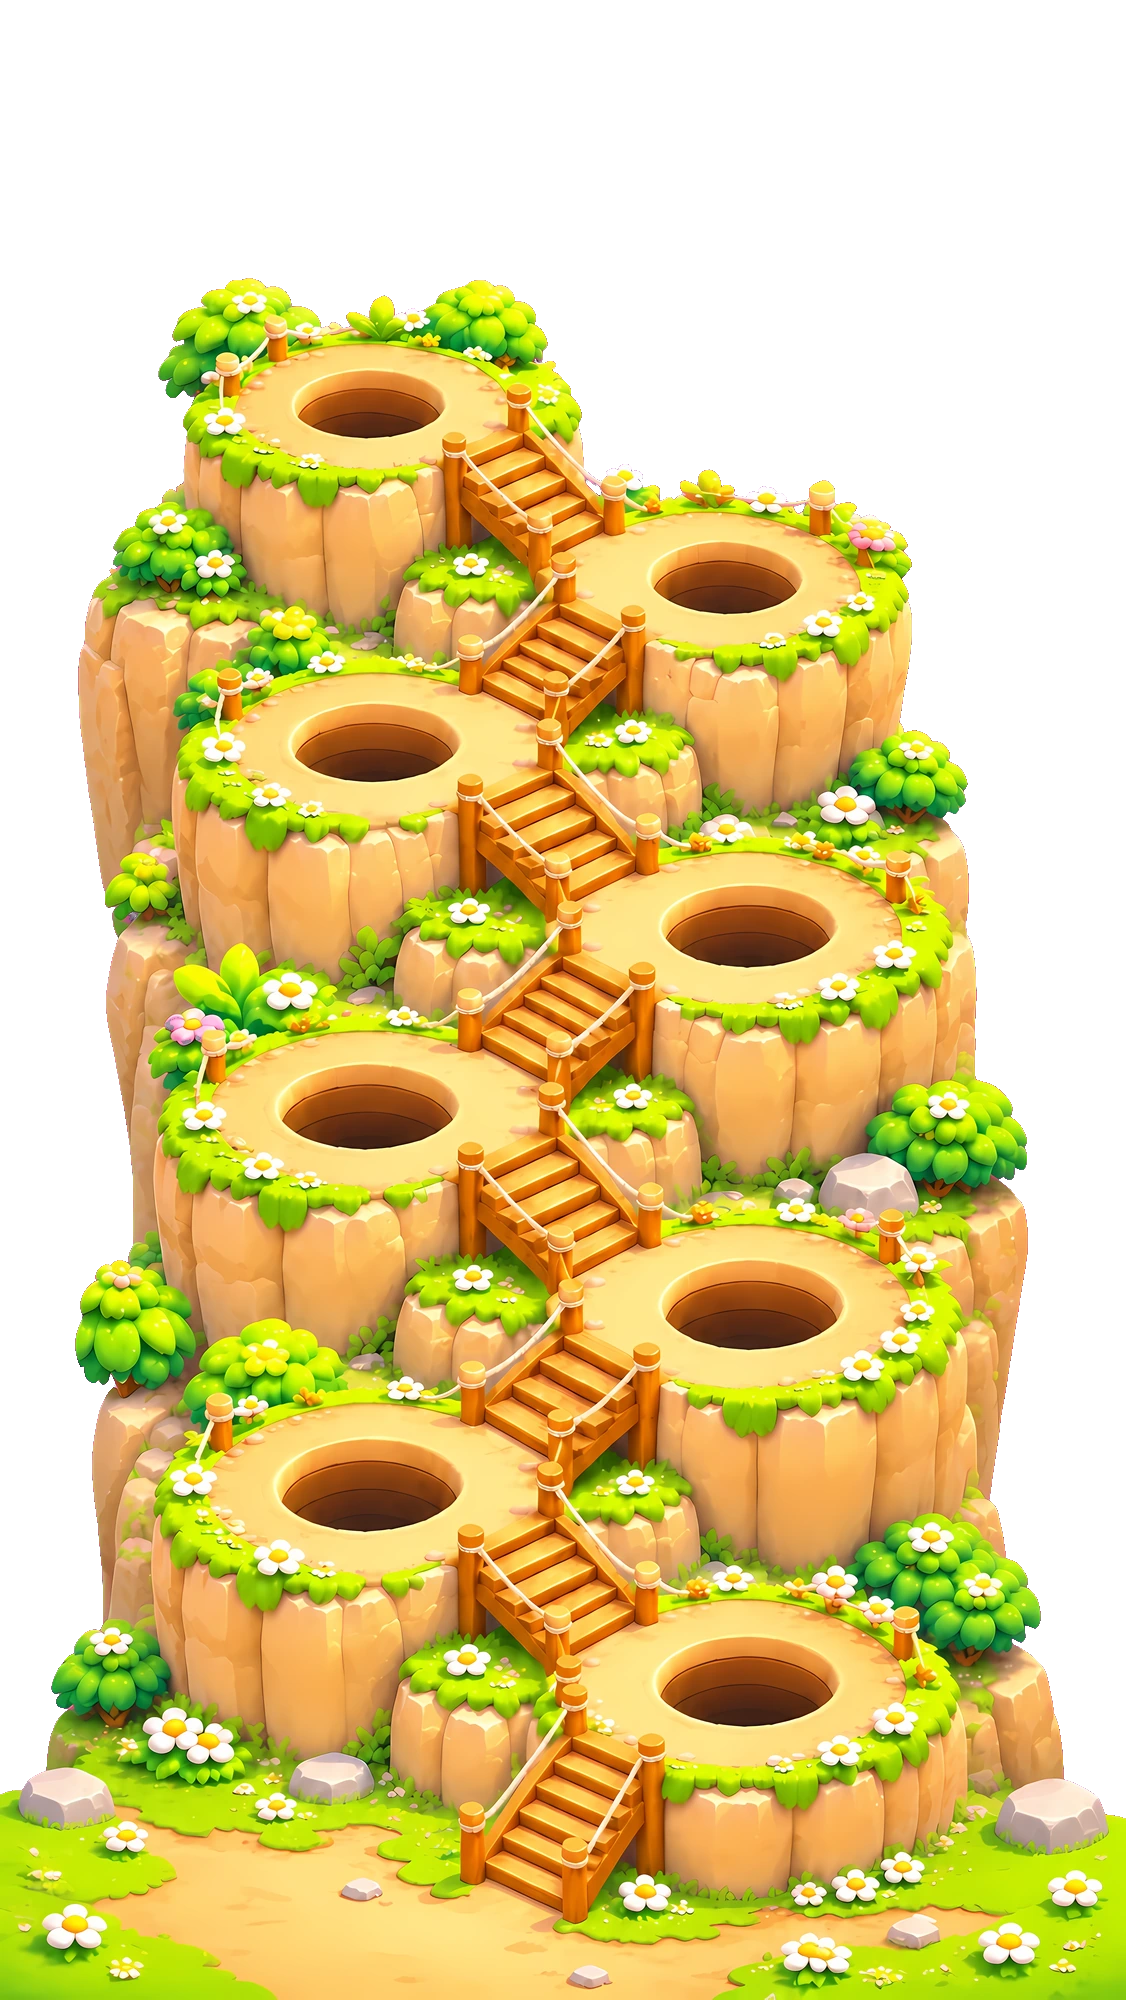
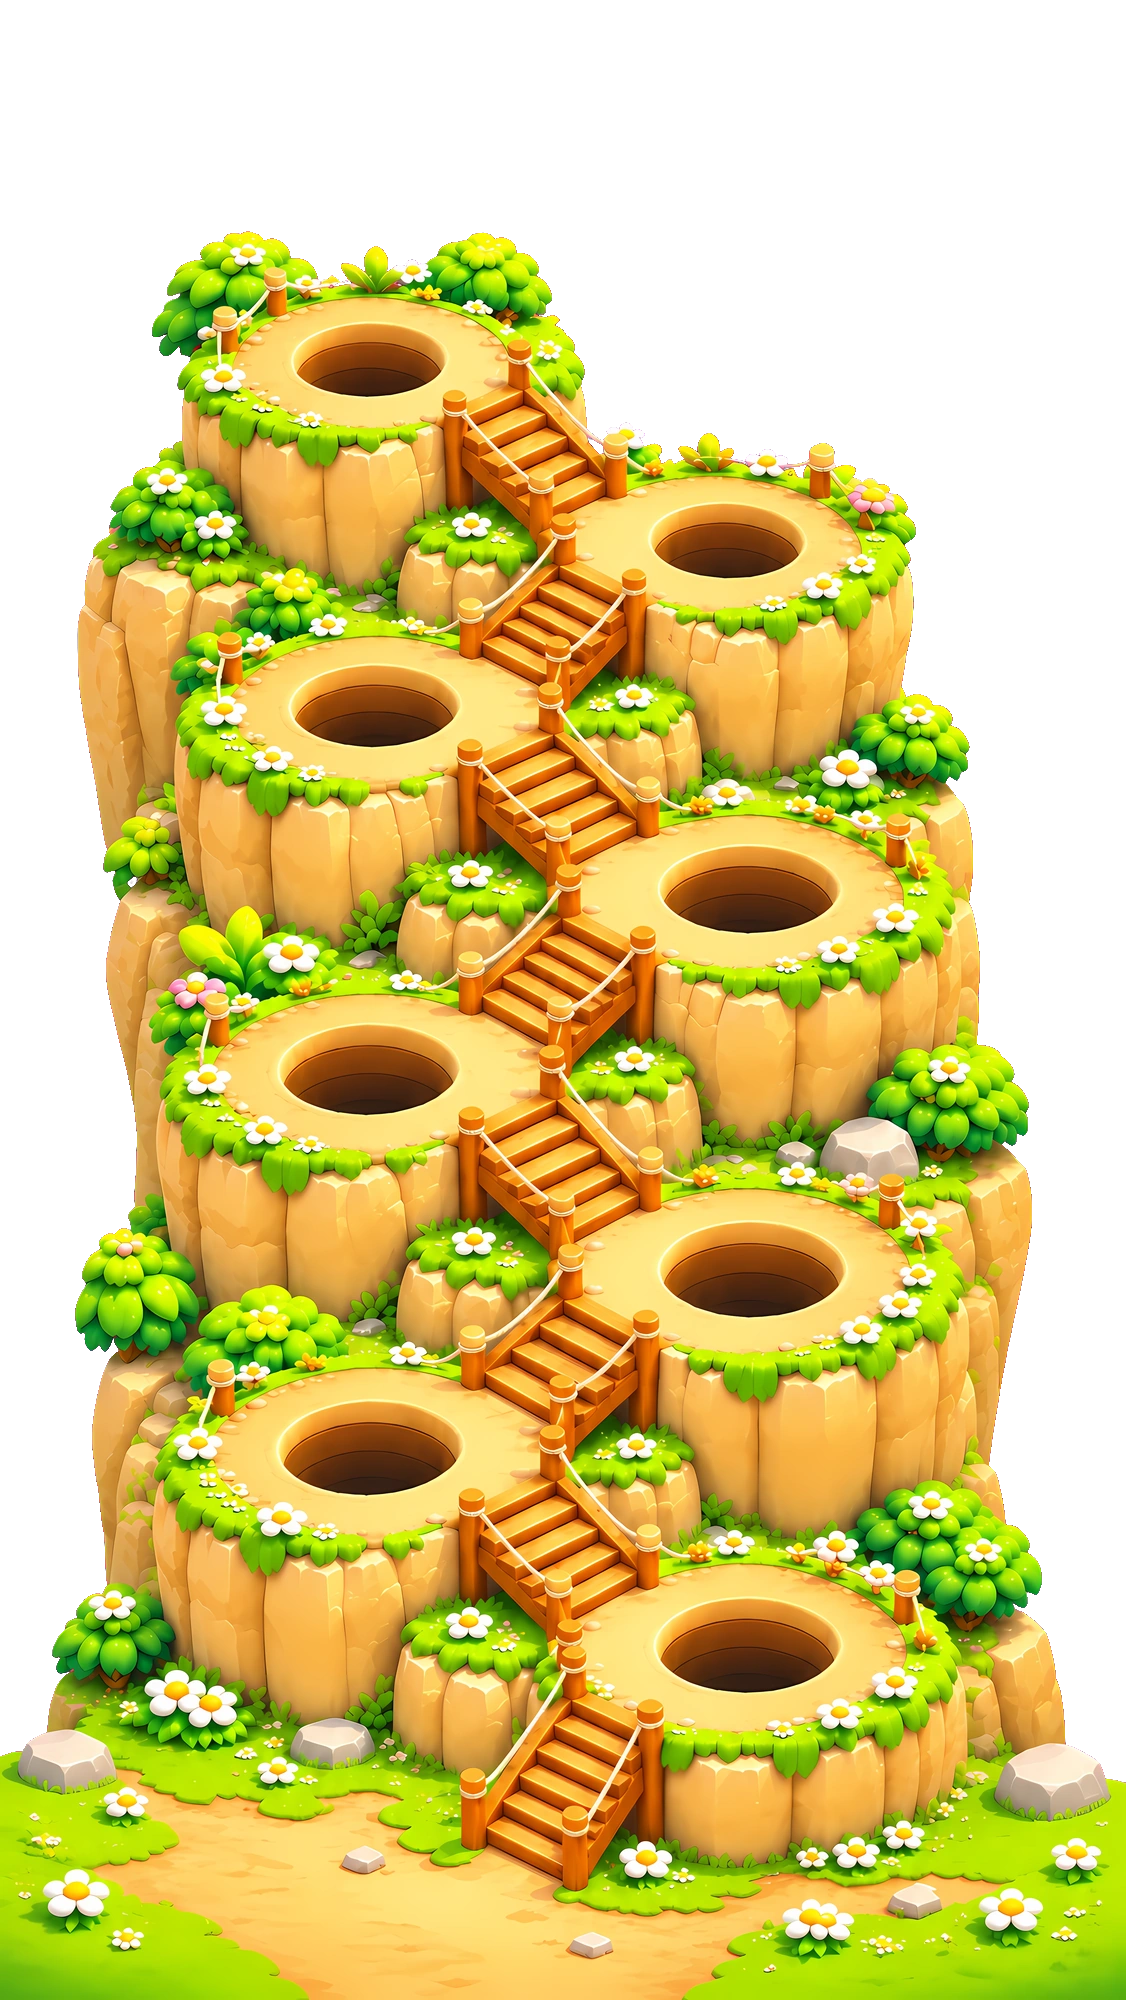
V1551 C: amateur round art high-res regen, rear original brightness, mode buttons on X row
Claude-Session: https://claude.ai/code/session_01A4gqRQNWjEF42VQpMkdpkG

diff --git a/mole/index.html b/mole/index.html
@@ -36,8 +36,8 @@
 <link href="https://fonts.googleapis.com/css2?family=Dongle:wght@700&family=Jua&family=Lilita+One&display=swap" rel="stylesheet">
 <link rel="stylesheet" href="../cosmic-theme.css">
 <link rel="stylesheet" href="../common/settings.css">
-<link rel="stylesheet" href="style.css?v=1550-C">
-<link rel="stylesheet" href="roundmap-window.css?v=1550-C">
+<link rel="stylesheet" href="style.css?v=1551-C">
+<link rel="stylesheet" href="roundmap-window.css?v=1551-C">
 <style>
   /* 로딩 스플래시 — style.css 로딩 전에도 바로 뜨게 인라인. */
   #splash {
@@ -489,7 +489,7 @@
           <img loading="lazy" decoding="async" class="rm-bg" data-rm-bg alt="">
           <div class="rm-parallax-scene" aria-hidden="true">
             <div class="rm-parallax-rear">
-              <img loading="lazy" decoding="async" class="rm-rear-bg rm-mode-easy" src="assets/roundmap/hd-v1550/easy-rear.webp" alt=""><!-- V1550 C 사용자: 아마추어 뒷배경 = 기존 그림 30% 뿌옇게(하늘색 막), 옛 보석·랜턴 빛 층 삭제 -->
+              <img loading="lazy" decoding="async" class="rm-rear-bg rm-mode-easy" src="assets/roundmap/hd-v1330/easy-rear.webp" alt=""><!-- V1551 C 사용자: 아마추어 뒷배경 밝기 원래대로(뿌옇게 취소). V1550 C 옛 보석·랜턴 빛 층 삭제 -->
               <img loading="lazy" decoding="async" class="rm-rear-bg rm-mode-mid" src="assets/roundmap/hd-v1330/mid-rear.webp" alt=""><img loading="lazy" decoding="async" class="rm-glow-layer rm-glow-gem rm-mode-mid" src="assets/roundmap/hd-v1330/mid-rear-gem.webp" alt="" style="left:0.000%;top:0.400%;width:100.000%;height:99.600%"><img loading="lazy" decoding="async" class="rm-glow-layer rm-glow-lan rm-mode-mid" src="assets/roundmap/hd-v1330/mid-rear-lan.webp" alt="" style="left:48.135%;top:2.700%;width:49.822%;height:36.900%">
               <img loading="lazy" decoding="async" class="rm-rear-bg rm-mode-legend" src="assets/roundmap/hd-v1330/legend-rear.webp" alt=""><img loading="lazy" decoding="async" class="rm-glow-layer rm-glow-gem rm-mode-legend" src="assets/roundmap/hd-v1330/legend-rear-gem.webp" alt="" style="left:0.000%;top:7.150%;width:100.000%;height:91.450%"><img loading="lazy" decoding="async" class="rm-glow-layer rm-glow-lan rm-mode-legend" src="assets/roundmap/hd-v1330/legend-rear-lan.webp" alt="" style="left:8.171%;top:3.500%;width:90.586%;height:19.200%">
               <canvas class="rm-fluid-canvas" data-rm-rear-fluid hidden></canvas>
@@ -1008,7 +1008,7 @@
         <!-- 배포 버전 표식(스크린샷으로 어느 버전인지 확인용) — 화면 좌하단에 두면 다른 UI에
              가려 잘 안 보인다는 사용자 지적으로, 하트 아이콘(다이얼패드 1번 칸) 바로 위로 이동. -->
         <div class="h2-preload" aria-hidden="true"></div><!-- v951: 게임 중 버튼 색(초록·노랑·빨강·분홍·회색) 미리 읽어 두기 — 처음 바뀔 때 깜빡임 방지 -->
-        <div id="build-tag" aria-hidden="true">V 1550 C</div>
+        <div id="build-tag" aria-hidden="true">V 1551 C</div>
         <!-- 피버타임(터치캐치 보너스타임) 전광판 — 버튼보드 자리를 통째로 덮는 오버레이,
              평소엔 hidden, 피버 중에만 콤보/잔여시간 표시(사용자 지정: "전광판처럼"). -->
         <div id="fever-scoreboard" class="fever-scoreboard" hidden>
@@ -1076,7 +1076,7 @@ window.FGH.rollOut = function (el, done) {
 <script src="js/workshop.js?v=1531-C"></script>
 <script src="js/round-map-fluids.js"></script>
 <script src="js/round-map-fluid-scenes.js"></script>
-<script src="js/round-map.js?v=1550-C"></script>
+<script src="js/round-map.js?v=1551-C"></script>
 <script src="js/rhythm-b-routes.js"></script>
 <script src="js/rhythm-b-flow.js"></script>
 <script src="js/rhythm-b-play.js"></script>
@@ -1294,7 +1294,7 @@ window.FGH.rollOut = function (el, done) {
         var gate = window.__moleAssetGate;
         function waitForCurrentWorker(registration) {
           return new Promise(function (resolve, reject) {
-            var latest = 'v=1550-C';
+            var latest = 'v=1551-C';
             var done = false;
             var timer = setTimeout(function () { finish(); }, 25000);
             function finish(error) {
@@ -1321,7 +1321,7 @@ window.FGH.rollOut = function (el, done) {
           console.warn('Starting while service worker registration continues in background');
           if (gate) gate.resolveCache();
         }, 30000);
-        navigator.serviceWorker.register('sw.js?v=1550-C').then(waitForCurrentWorker).then(function () {
+        navigator.serviceWorker.register('sw.js?v=1551-C').then(waitForCurrentWorker).then(function () {
           clearTimeout(registrationTimer);
           if (gate) gate.resolveCache();
         }).catch(function (error) {

diff --git a/mole/sw.js b/mole/sw.js
@@ -30,7 +30,8 @@
 // V1548 C: Normal frame 144% bright, 105% size, time-bomb animals use new bomb style, rabbit 92% + body-centered, hippo centered.
 // V1549 C: emerge clods per season (spring leaf+light dirt, summer sand, autumn orange leaves, winter snowballs).
 // V1550 C: Amateur round map new bright 3D cartoon art (hazed rear 30%, new route, new wall frame pushed to edges), full-screen map, tap shows/hides mode buttons (top) + wallet/start (bottom), hippo lower.
-const CACHE = 'mole-game-v1550-C';
+// V1551 C: Amateur rear back to original brightness, mode buttons aligned with X row, round art regenerated in high resolution (Codex).
+const CACHE = 'mole-game-v1551-C';
 
 // 화면별 BGM(audio/bgm-*.mp3)은 v275 부터 SHELL 에 포함 — 기본 켜짐(v272)이라 항상 필요하고,
 // 캐시가 안 돼 있으면 오프라인/느린망에서 재생 실패했음.
@@ -189,7 +190,7 @@ const SHELL = [
   './assets/roundmap/window-v1263/route-grounded.webp',
   './assets/roundmap/window-v1263/foreground-frame.webp',
   './assets/roundmap/hd-v1550/easy-front.webp',
-  './assets/roundmap/hd-v1550/easy-rear.webp',
+  './assets/roundmap/hd-v1330/easy-rear.webp',
   './assets/roundmap/hd-v1550/easy-route.webp',
   './assets/roundmap/hd-v1330/legend-front-gem.webp',
   './assets/roundmap/hd-v1330/legend-front-lan.webp',

diff --git a/mole/roundmap-window.css b/mole/roundmap-window.css
@@ -298,7 +298,7 @@ body.rm-open :not(#roundmap-screen):not(#roundmap-screen *)::after { animation-p
 /* 하마: 맨 아래 왼쪽 */
 .rm-window-map .rm-viewer,.rm-window-map[data-light="mid"] .rm-viewer,.rm-window-map[data-light="legend"] .rm-viewer { bottom:calc(env(safe-area-inset-bottom,0px) - 4cqw); }
 /* 난이도 버튼 = 위 빈 하늘(X 왼쪽), 재화 = 아래 시작 버튼 왼쪽(하마와 안 겹침) */
-.rm-window-map .rm-bottom { top:calc(env(safe-area-inset-top,0px) + 8cqw); bottom:auto; left:2%; right:19%; height:max(64px,16cqw); }
+.rm-window-map .rm-bottom { top:calc(env(safe-area-inset-top,0px) + 2% + 14px); bottom:auto; left:2%; right:19%; height:max(64px,16cqw); } /* V1551 C 사용자: X 버튼 줄에 맞춤 */
 .rm-window-map .rm-wallet { left:auto; right:calc(1.5% + 17cqw + 10px); bottom:calc(env(safe-area-inset-bottom,0px) + 1.5% + 8.5cqw - 15px); }
 /* 화면 터치 = 나타남/사라짐(round-map.js rm-ui-on). 티커·X·하마는 항상 보임 */
 .rm-window-map .rm-bottom,.rm-window-map .rm-start,.rm-window-map .rm-wallet { transition:translate .25s ease,opacity .25s ease; }

diff --git a/mole/js/round-map.js b/mole/js/round-map.js
@@ -21,8 +21,8 @@
   // 고정 지형의 실제 구멍 중심(941×1672). 모드별 외형만 다르고 진행 로직은 같다.
   // 뒤 동굴의 이동과 무관하게 구멍, 두더지, 잠금 및 터치 기준점은 함께 고정된다.
   // V1550 C 사용자: 아마추어 새 라운드 그림(hd-v1550/easy-route) 구멍 중심
-  var ROUTE = [[624.8, 1422], [309.5, 1259], [628.7, 1109], [308.5, 942],
-    [626.6, 791], [314.6, 638], [607.9, 499], [311.2, 354]];
+  var ROUTE = [[624.9, 1392], [309.4, 1228], [628.8, 1078], [308.7, 911],
+    [626.5, 760], [313.7, 607], [608.4, 468], [310.8, 317]]; // V1551 C: Codex 고해상도 새로 그림
   var HOLES = {
     easy: ROUTE,
     mid: [[692.4,1266.6],[345,1073.3],[609.8,913],[302.5,721],[579.6,611.2],[288,447.9],[527,354.6],[284,180]], // V1545 C: 새 노말 앞그림 구멍 중심
